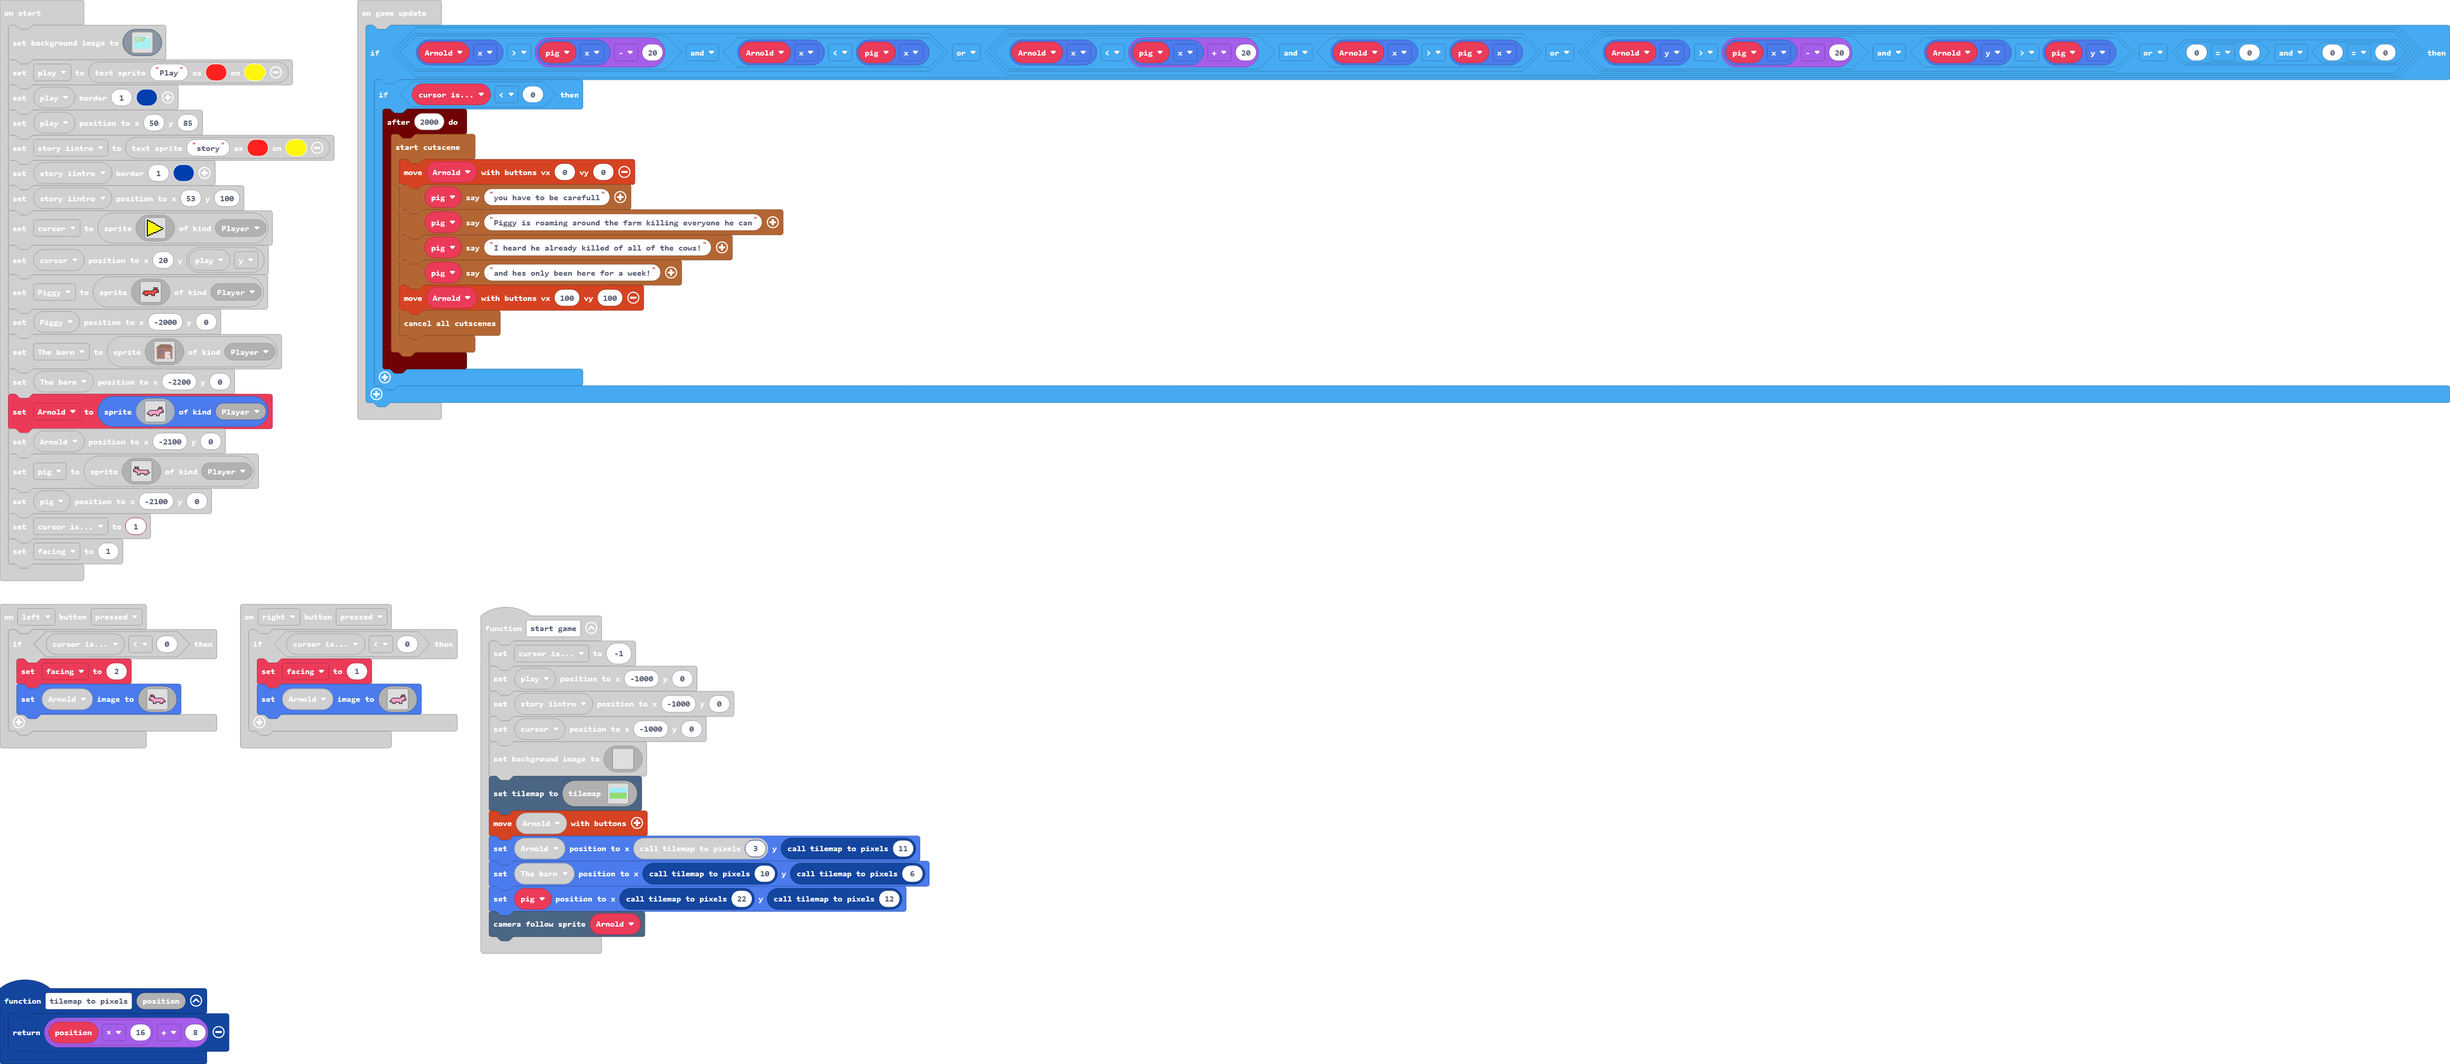
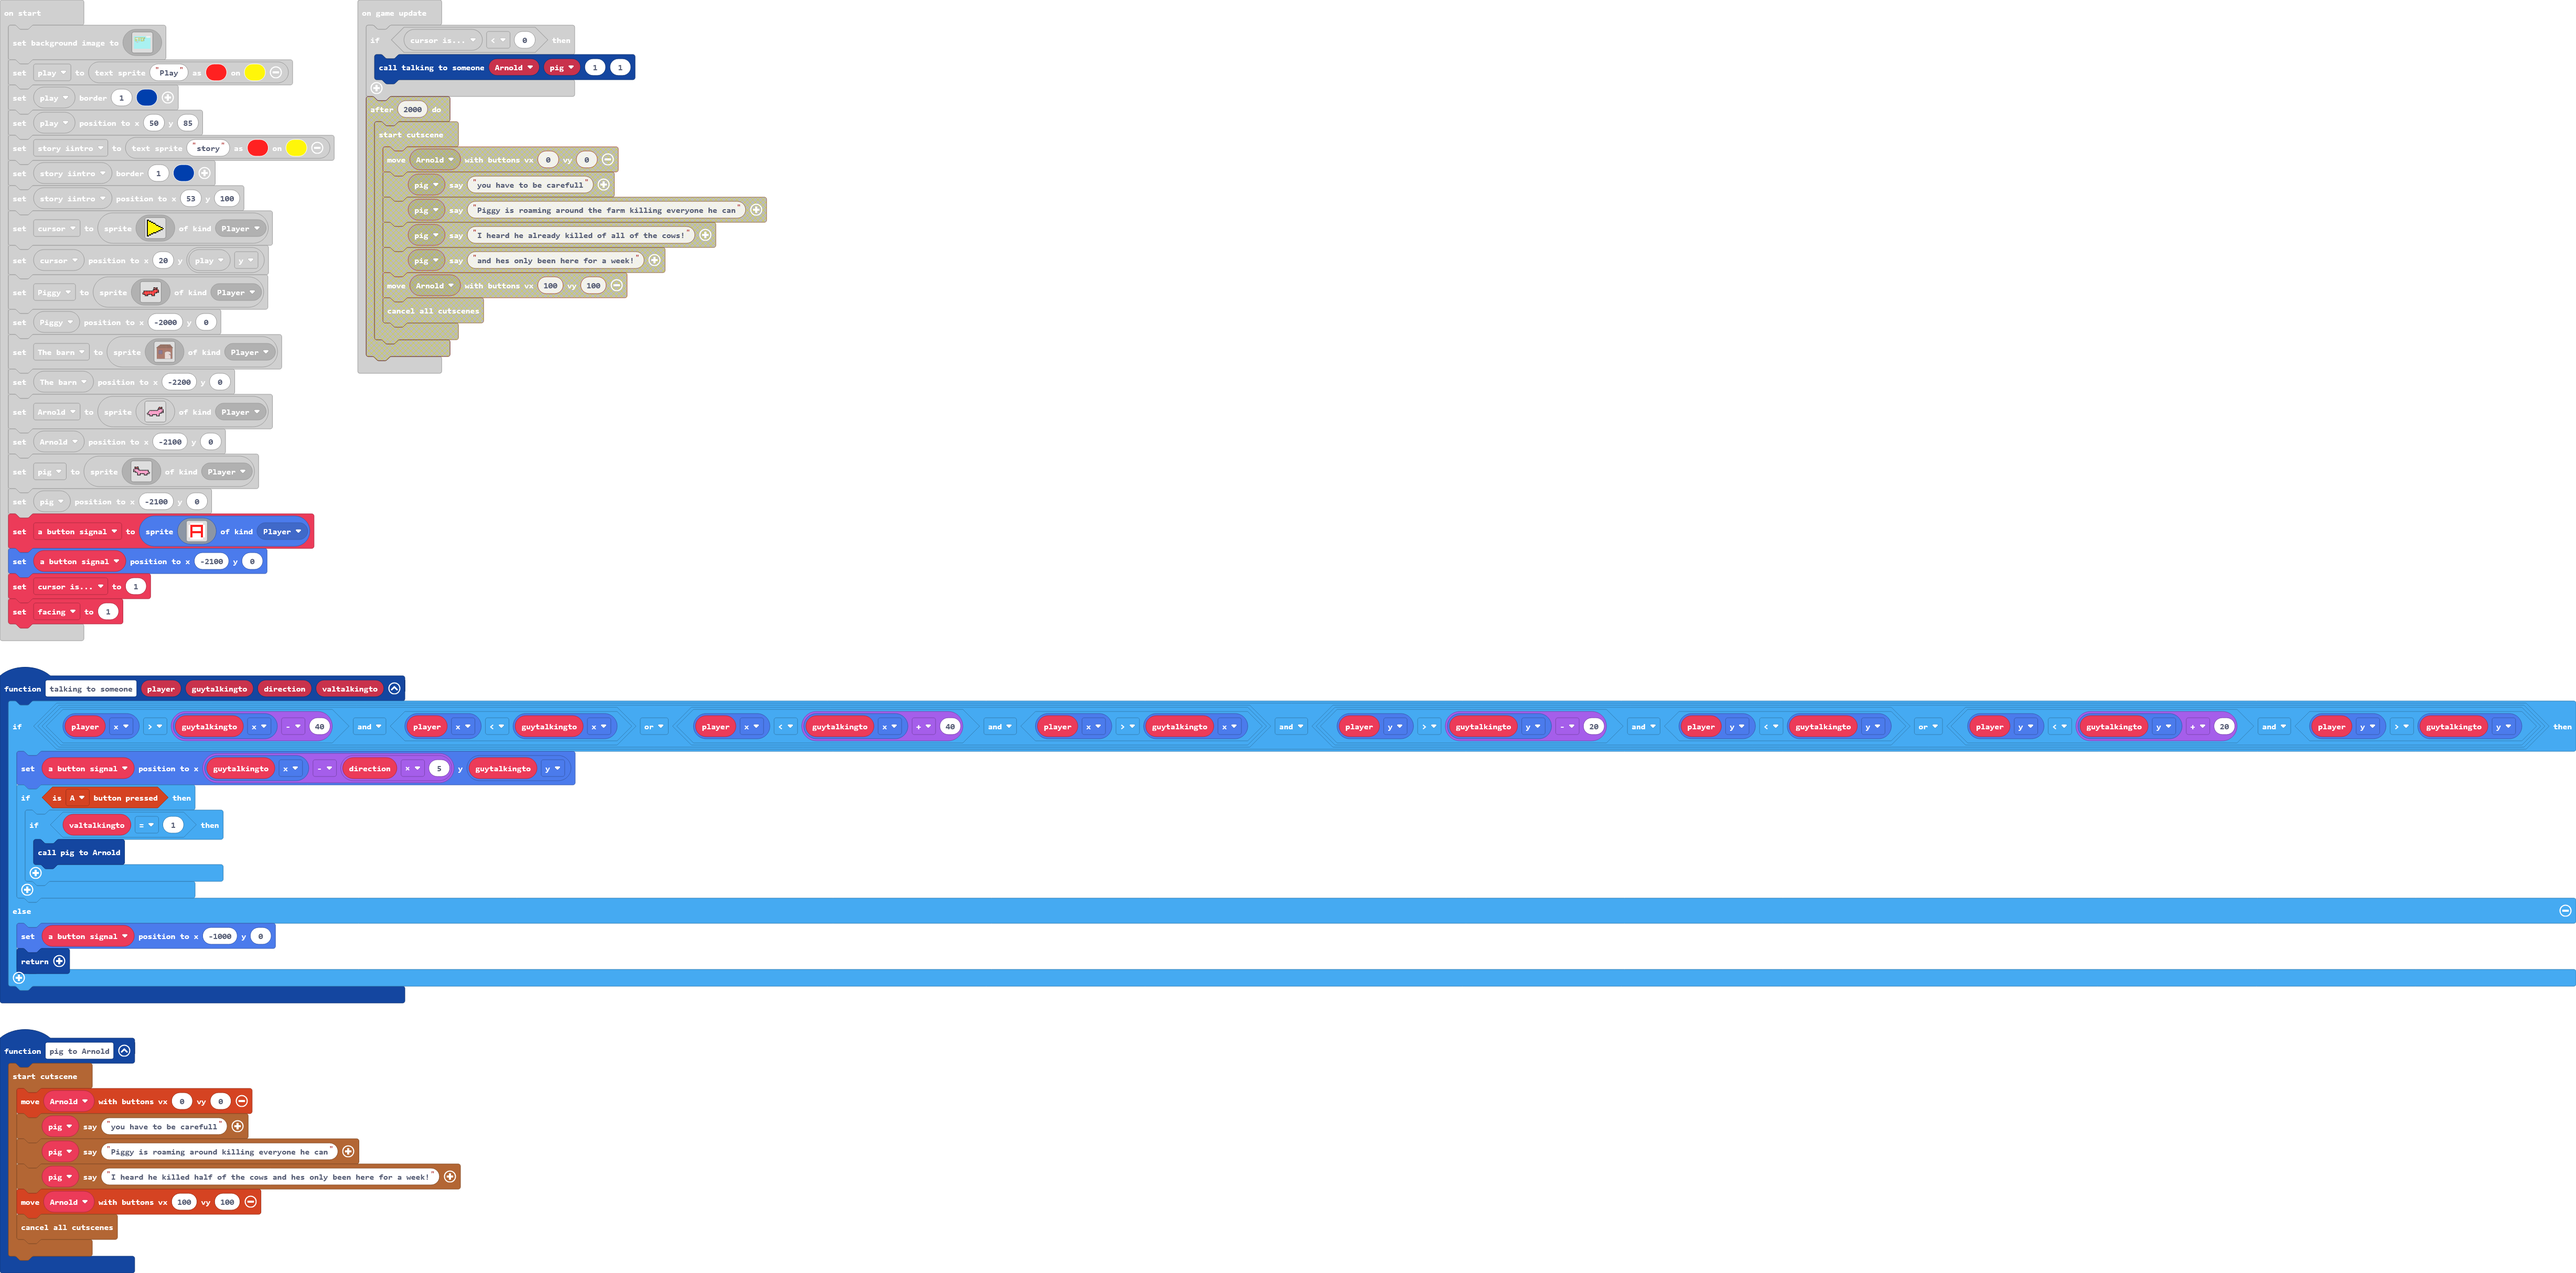
I finally finished the talking framework!

Changed region(s): [[0.0, 0.0, 1.0, 1.0]]

diff --git a/main.ts b/main.ts
@@ -492,11 +492,35 @@ function story_intro () {
         })
     })
 }
+function pig_to_Arnold () {
+    story.startCutscene(function () {
+        controller.moveSprite(Arnold, 0, 0)
+        story.spriteSayText(pig, "you have to be carefull")
+        story.spriteSayText(pig, "Piggy is roaming around killing everyone he can")
+        story.spriteSayText(pig, "I heard he killed half of the cows and hes only been here for a week!")
+        controller.moveSprite(Arnold, 100, 100)
+        story.cancelAllCutscenes()
+    })
+}
 function tilemap_to_pixels (position: number) {
     return position * 16 + 8
 }
+function talking_to_someone (player2: Sprite, guytalkingto: Sprite, direction: number, valtalkingto: number) {
+    if ((player2.x > guytalkingto.x - 40 && player2.x < guytalkingto.x || player2.x < guytalkingto.x + 40 && player2.x > guytalkingto.x) && (player2.y > guytalkingto.y - 20 && player2.y < guytalkingto.y || player2.y < guytalkingto.y + 20 && player2.y > guytalkingto.y)) {
+        a_button_signal.setPosition(guytalkingto.x - direction * 5, guytalkingto.y)
+        if (controller.A.isPressed()) {
+            if (valtalkingto == 1) {
+                pig_to_Arnold()
+            }
+        }
+    } else {
+        a_button_signal.setPosition(-1000, 0)
+        return
+    }
+}
 let facing = 0
 let cursor_is = 0
+let a_button_signal: Sprite = null
 let pig: Sprite = null
 let Arnold: Sprite = null
 let The_barn: Sprite = null
@@ -831,6 +855,17 @@ pig = sprites.create(img`
     ......fffff.....fffff....
     `, SpriteKind.Player)
 pig.setPosition(-2100, 0)
+a_button_signal = sprites.create(img`
+    . 1 1 1 1 1 1 . 
+    1 2 2 2 2 2 2 1 
+    1 2 1 1 1 1 2 1 
+    1 2 1 1 1 1 2 1 
+    1 2 2 2 2 2 2 1 
+    1 2 1 1 1 1 2 1 
+    1 2 1 1 1 1 2 1 
+    . 1 1 1 1 1 1 . 
+    `, SpriteKind.Player)
+a_button_signal.setPosition(-2100, 0)
 cursor_is = 1
 facing = 1
 game.onUpdate(function () {
@@ -846,19 +881,7 @@ game.onUpdate(function () {
     }
 })
 game.onUpdate(function () {
-    if (Arnold.x > pig.x - 20 && Arnold.x < pig.x || (Arnold.x < pig.x + 20 && Arnold.x > pig.x || (Arnold.y > pig.x - 20 && Arnold.y > pig.y || 0 == 0 && 0 == 0))) {
-        if (cursor_is < 0) {
-            timer.after(2000, function () {
-                story.startCutscene(function () {
-                    controller.moveSprite(Arnold, 0, 0)
-                    story.spriteSayText(pig, "you have to be carefull")
-                    story.spriteSayText(pig, "Piggy is roaming around the farm killing everyone he can")
-                    story.spriteSayText(pig, "I heard he already killed of all of the cows!")
-                    story.spriteSayText(pig, "and hes only been here for a week!")
-                    controller.moveSprite(Arnold, 100, 100)
-                    story.cancelAllCutscenes()
-                })
-            })
-        }
+    if (cursor_is < 0) {
+        talking_to_someone(Arnold, pig, 1, 1)
     }
 })
